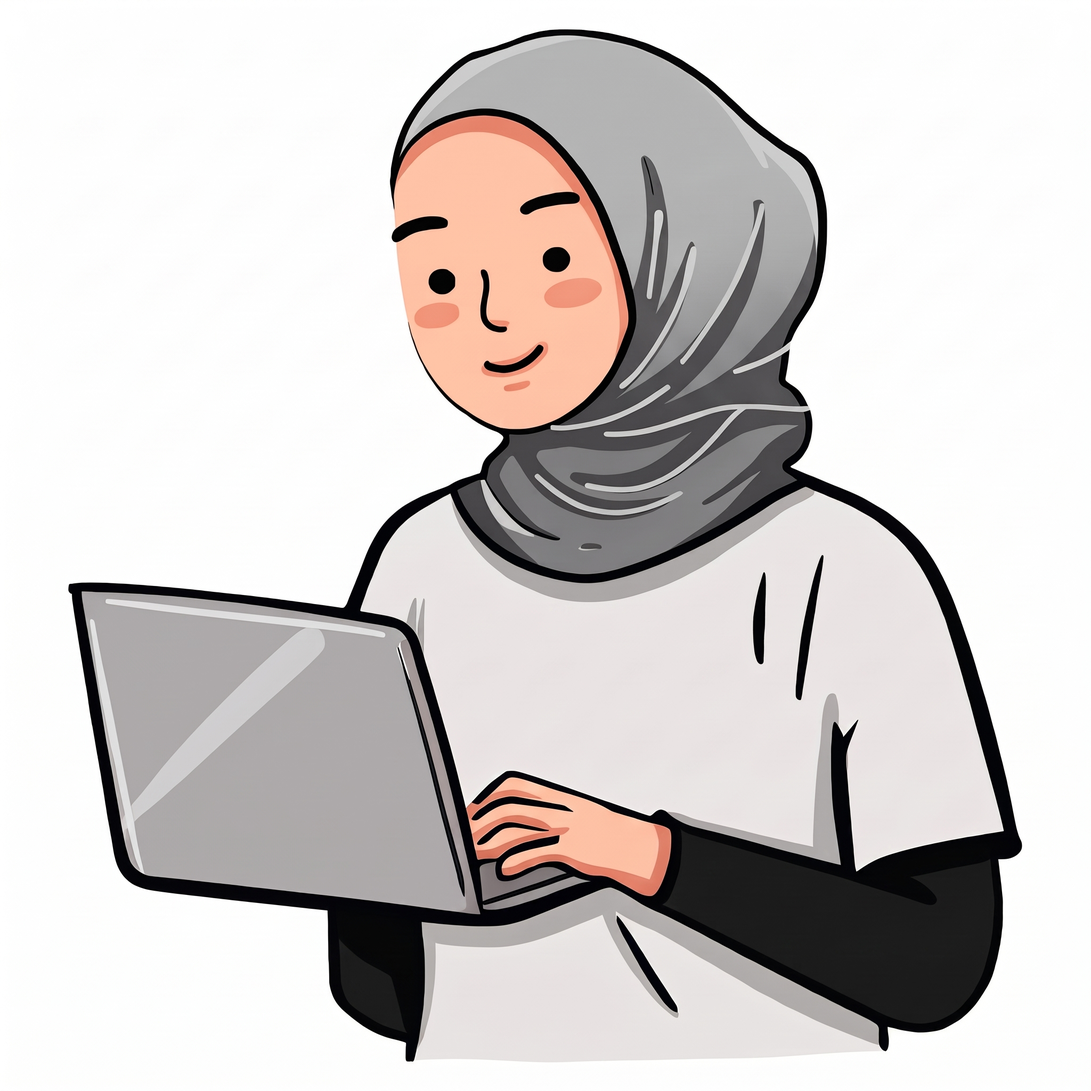
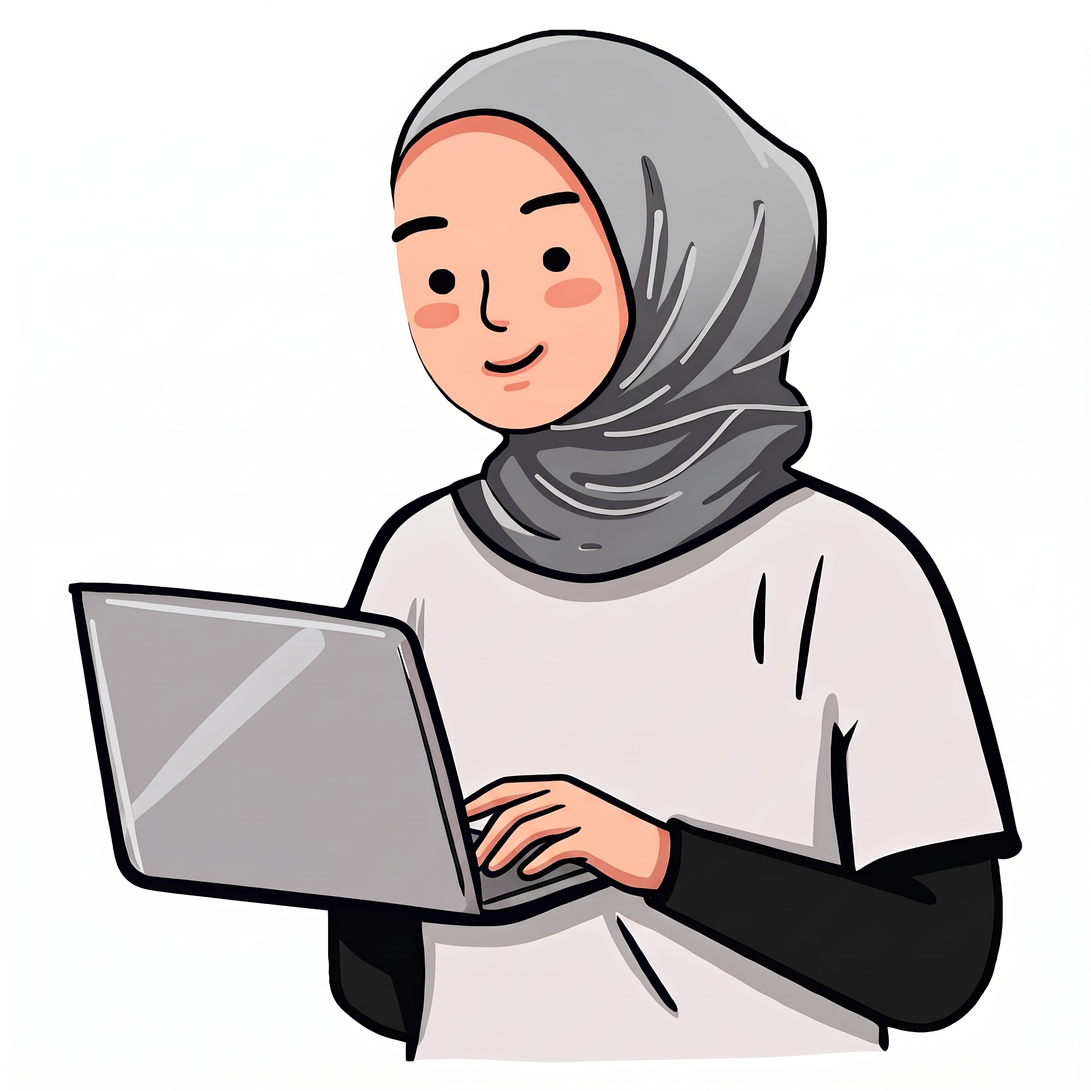
update

Changed region(s): [[0.4062, 0.6875, 0.625, 0.8125], [0.5625, 0.8125, 0.5938, 0.8438]]

diff --git a/data/experiences.js b/data/experiences.js
@@ -14,6 +14,15 @@ const EXPERIENCES = [
     }
   },
   {
+    role: "Freelance QA Tester",
+    period: "2025",
+    company: "Freelance · Mandiri Click",
+    description: {
+      id: "Melakukan pengujian untuk modul Consent Dana Pensiun dan Exit Management pada update aplikasi Mandiri Click berdasarkan desain dan prototype Figma. Memvalidasi alur pengguna, tampilan UI, dan fungsionalitas terhadap desain, menyusun serta mengeksekusi test case, dan melaporkan temuan bug beserta ketidaksesuaian desain kepada tim.",
+      en: "Tested the Consent Dana Pensiun (pension fund consent) and Exit Management modules in the Mandiri Click app update against its Figma designs and prototype. Validated user flows, UI, and functionality against the design, wrote and executed test cases, and reported bugs and design mismatches to the team."
+    }
+  },
+  {
     role: "QA Engineer",
     period: "Jan 2025 – Jan 2026",
     company: "Ikonsultan · Placement at Maybank Indonesia",
